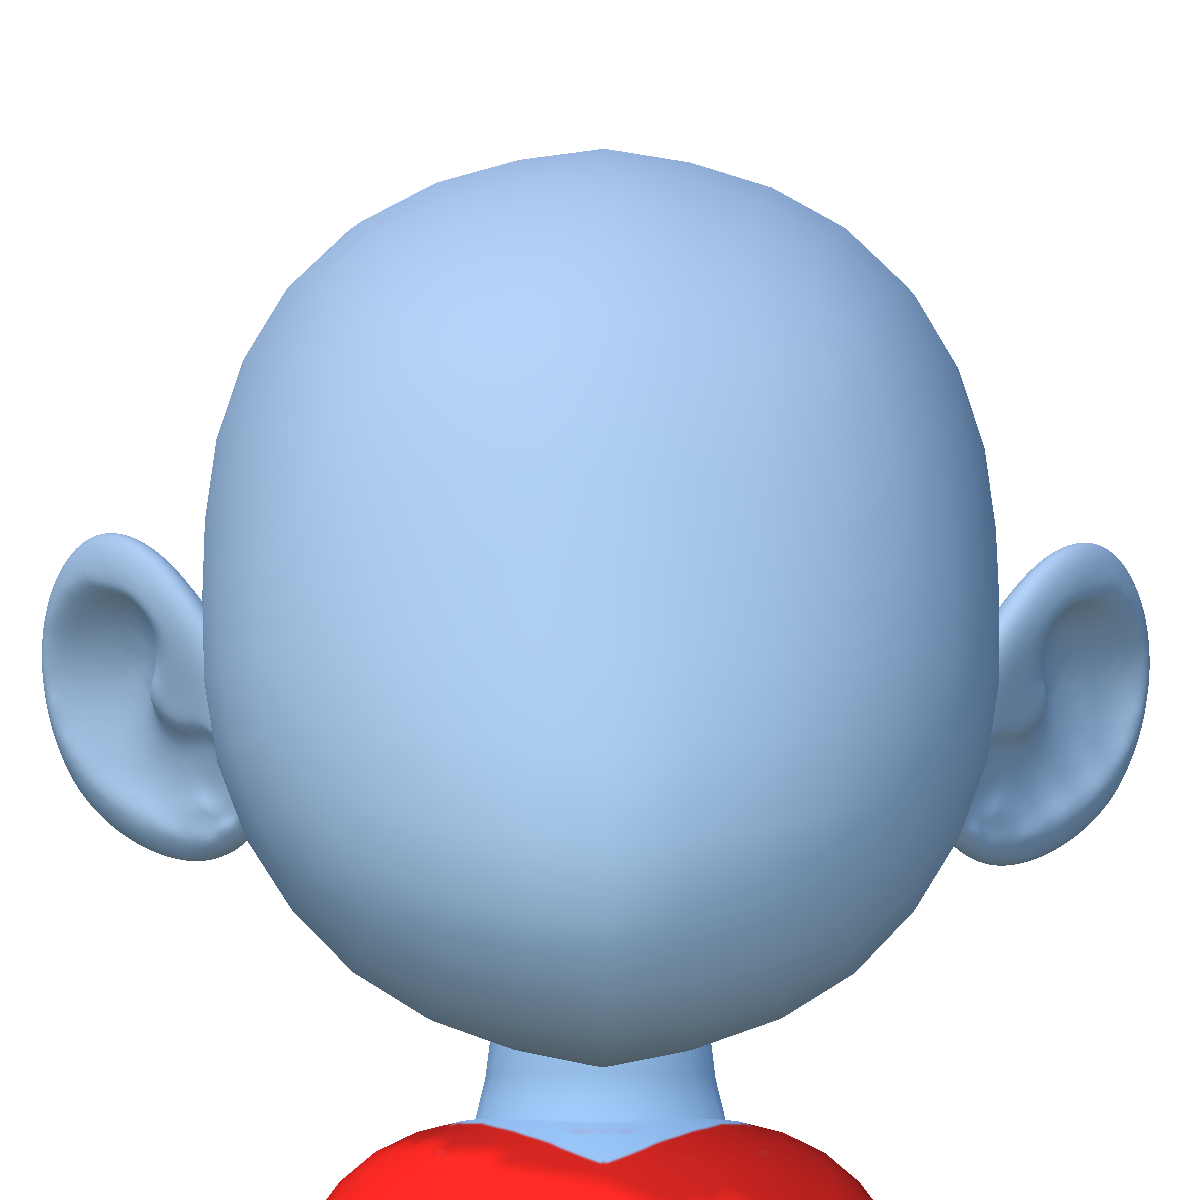
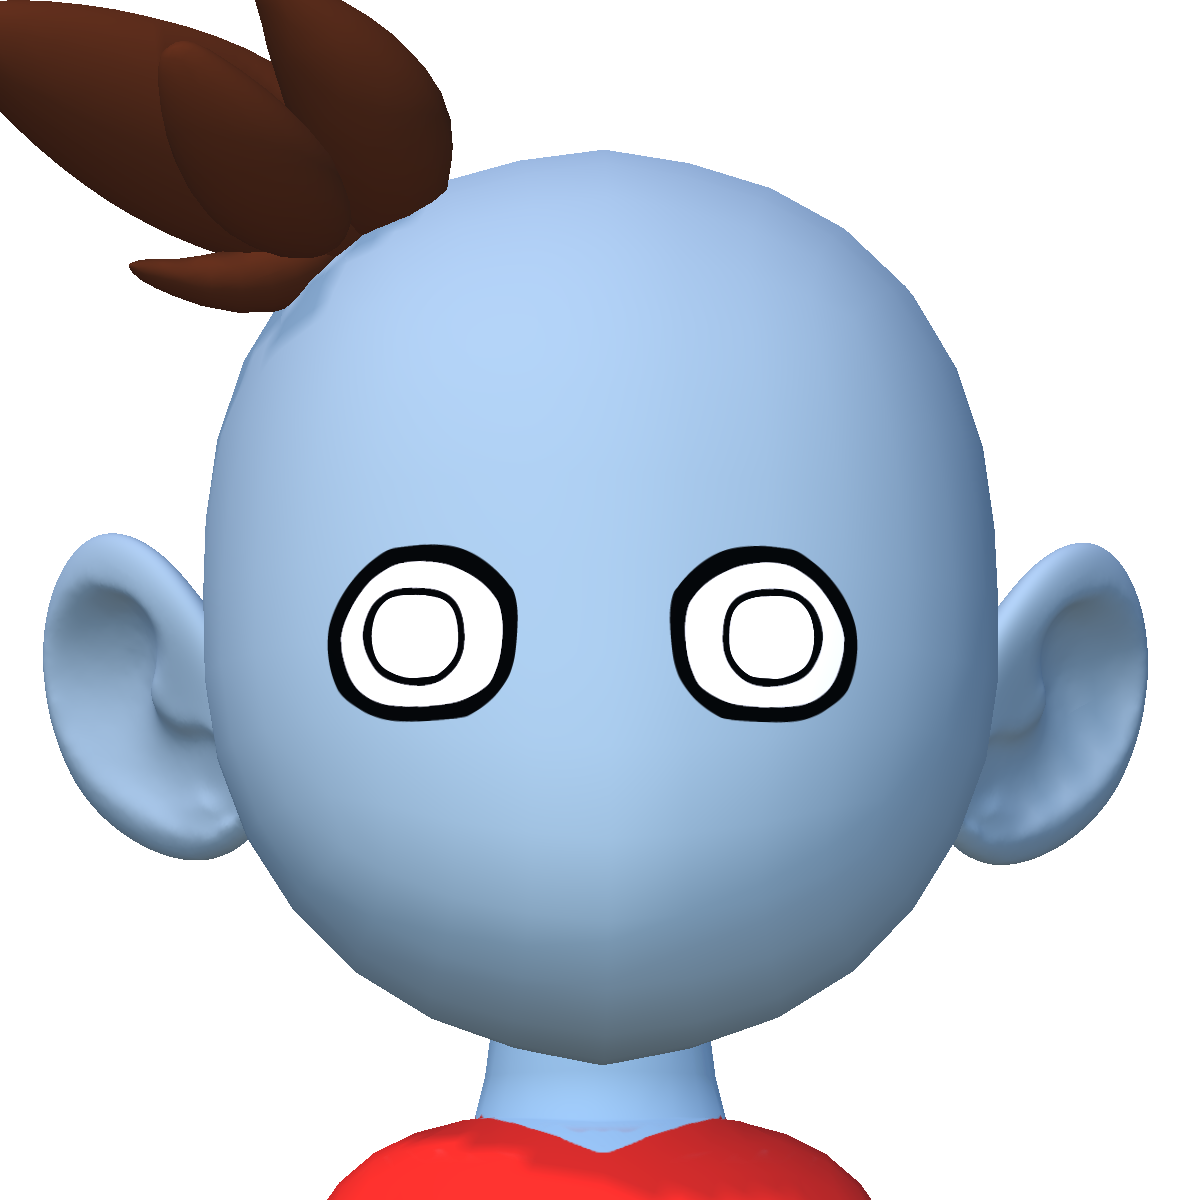
Wip fixing hair strand bugs

diff --git a/Assets/Scripts/FeatureObj.cs b/Assets/Scripts/FeatureObj.cs
@@ -132,8 +132,20 @@ public abstract class FeatureObj : MonoBehaviour
 
     protected virtual void SpawnMirror()
     {
+
         MirroredFeature = Instantiate(gameObject, transform.parent).GetComponent<FeatureObj>();
         MirroredFeature.SetAsMirroredVersion();
+
+        var addon = GetComponentInChildren<MovableAddon>();
+
+        /*if (addon != null) {
+            var mirroredStrand = MirroredFeature.transform.GetChild(0);
+            var pos = transform.GetChild(0).localPosition;
+            pos.x *= -1;
+            mirroredStrand.localPosition = pos;
+
+            print("Spawn mirror addon. localPos: " + pos);
+        }*/
     }
 
     public void SetDefaults()
@@ -154,8 +166,24 @@ public abstract class FeatureObj : MonoBehaviour
     public void SetMirrorTpe(MirrorType mirror)
     {
         if (Settings.Mirror == mirror) return;
+
         Settings.Mirror = mirror;
         UpdateDisplay();
+
+        var addon = GetComponentInChildren<MovableAddon>();
+        if (addon) {
+            var mirroredStrand = MirroredFeature.transform.GetChild(0);
+            var pos = transform.GetChild(0).localPosition;
+            pos.x *= -1;
+            mirroredStrand.localPosition = pos;
+
+            var mirroredAddon = MirroredFeature.GetComponentInChildren<MovableAddon>();
+            mirroredStrand.localEulerAngles = addon.transform.localEulerAngles;
+            mirroredStrand.localEulerAngles += Vector3.up * 180;
+            mirroredAddon.SetTargetUp(mirroredStrand.up);
+
+            print("Spawn mirror addon. localPos: " + pos);
+        }
     }
 
     public void SetAll(FeatureObjSettings settings)

diff --git a/Assets/Scripts/MovableAddon.cs b/Assets/Scripts/MovableAddon.cs
@@ -24,6 +24,11 @@ public class MovableAddon : MonoBehaviour
         _controller = GetComponentInParent<HairPiece>();
     }
 
+    public void SetTargetUp(Vector3 targetUp)
+    {
+        _targetUp = targetUp; 
+    }
+
     /// <summary>
     /// Returns a 12 digit string representing the rotation of the parent and then the child, parent rot first.
     /// </summary>
@@ -39,6 +44,7 @@ public class MovableAddon : MonoBehaviour
 
     public void SetRot(string inputString)
     {
+        print("set rot string!");
         Utils.DecodeQuaternions12(inputString, out var parentRot, out var childRot);
 
         //print("decoded quatString. rotA: " + parentRot + ", childRot: " + childRot + ", inputString: " + inputString);
@@ -97,9 +103,7 @@ public class MovableAddon : MonoBehaviour
         //print("decoded pos string. x: " + x + ", y: " + y + ", z: " + z + ", posString: " + inputString);
         transform.localPosition = new Vector3(x, y, z);
 
-        /*Vector3 localPos = transform.parent.InverseTransformPoint(hitInfo.point);
-        localPos.x = -localPos.x;
-        _mirror.transform.position = transform.parent.TransformPoint(localPos);*/
+        if (_mirror) _mirror.transform.localPosition = new Vector3(-x, y, z);
     }
 
     public void SetSelected(bool selected)
